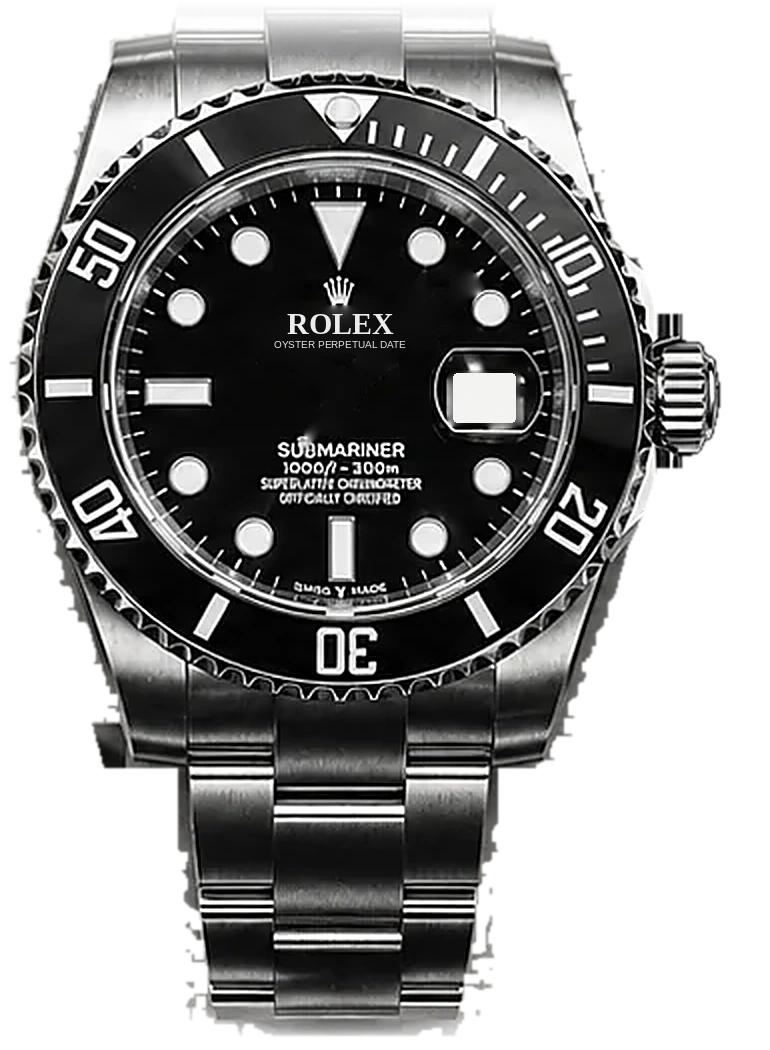
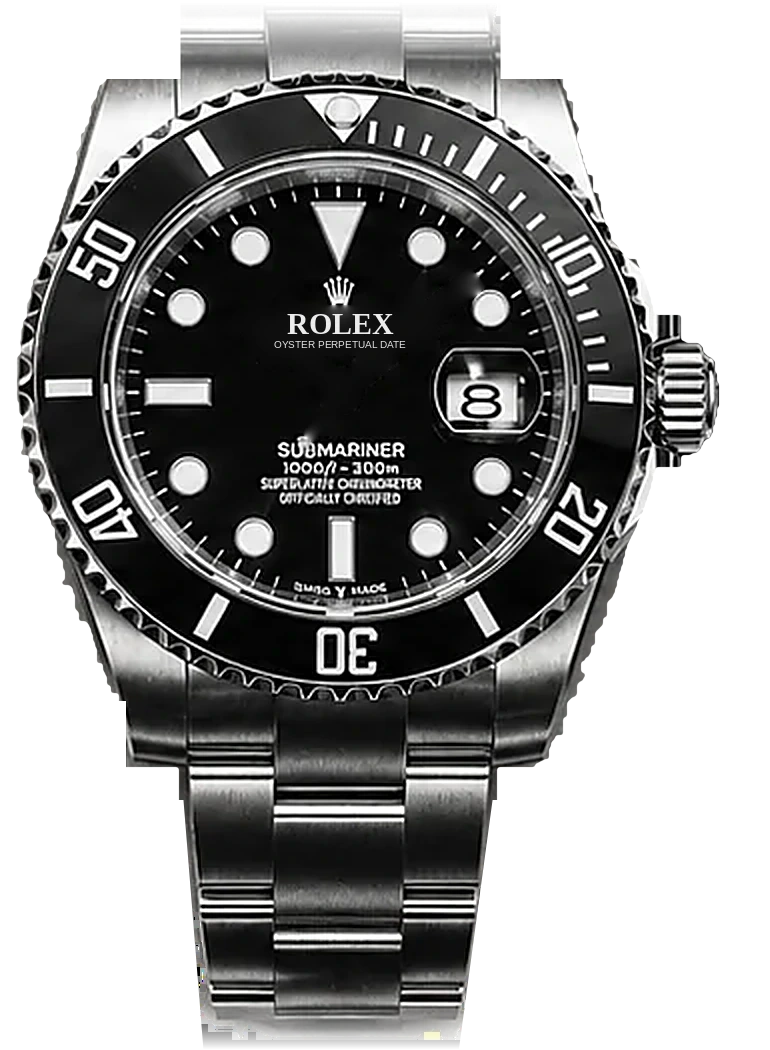
Monalex : Submariner immobile, date d'origine, détourage lissé (#29)
* Localisateur de montres Monaco : style blanc/vert/or, compte, suivis, réactivité des vendeurs, rafraîchir

Claude-Session: https://claude.ai/code/session_016EaW4x921TW3DG867DRSbr

* Monalex : détaillants officiels Rolex réels (Monaco, France, Europe, monde), cartes Plan / Google Maps / satellite / Google Earth 3D

Claude-Session: https://claude.ai/code/session_016EaW4x921TW3DG867DRSbr

* Monalex : logo dans l'en-tête, le menu, la recherche, les icônes et l'image de partage ; accueil assorti (cadran vert, or)

Claude-Session: https://claude.ai/code/session_016EaW4x921TW3DG867DRSbr

* Monalex : textes revus (mêmes mots partout, erreurs et pages vides utiles), page À propos et données personnelles, confirmation de suppression, chargement animé, référencement

Claude-Session: https://claude.ai/code/session_016EaW4x921TW3DG867DRSbr

* Monalex : vert poker soleillé (couleurs relevées sur un cadran), reflets qui tournent au défilement

Claude-Session: https://claude.ai/code/session_016EaW4x921TW3DG867DRSbr

* Monalex : polices Garamond hébergées, cartes épurées, bandeau cookies (Google Maps sur accord), page Notifications, filtre photos (qualité, doublons)

Claude-Session: https://claude.ai/code/session_016EaW4x921TW3DG867DRSbr

* Monalex : catalogue officiel uniquement (plus d'annonces d'occasion), filtres sur toutes les caractéristiques, alertes de recherche avec notification

Claude-Session: https://claude.ai/code/session_016EaW4x921TW3DG867DRSbr
[…]

diff --git a/docs/monalex/app.js b/docs/monalex/app.js
@@ -1616,31 +1616,24 @@ async function start() {
     const live = $("#subLive");
     // photo nette (aiguilles d'origine effacées proprement) + aiguilles et date en direct
     const lume = "#f4f2ea";
-    live.innerHTML = `<img src="img/sub-montre.webp?v=3" alt="" width="770" height="1050" decoding="async">
+    live.innerHTML = `<img src="img/sub-montre.webp?v=4" alt="" width="770" height="1050" decoding="async">
 <svg viewBox="0 0 770 1050" aria-hidden="true"><defs><filter id="subOmbre" x="-50%" y="-50%" width="200%" height="200%"><feDropShadow dx="3" dy="5" stdDeviation="3" flood-opacity=".6"/></filter>
 <linearGradient id="subMet" x1="0" x2="1"><stop offset="0" stop-color="#8d9096"/><stop offset=".5" stop-color="#f4f5f7"/><stop offset="1" stop-color="#9a9da3"/></linearGradient></defs>
-<text class="w-d" x="484" y="399" font-size="38" font-weight="700" fill="#111" text-anchor="middle" dominant-baseline="central" font-family="Helvetica,Arial,sans-serif"></text>
 <g filter="url(#subOmbre)" transform="translate(340 390) scale(.94) translate(-300 -410)">
 <g class="w-h"><path d="M294 410V336h12v74Z" fill="url(#subMet)"/><circle cx="300" cy="318" r="21" fill="${lume}" stroke="url(#subMet)" stroke-width="6"/><path d="M300 297v42M281.8 328.5 300 318l18.2 10.5" stroke="url(#subMet)" stroke-width="4" fill="none"/><path d="M293 298L300 272L307 298Z" fill="url(#subMet)"/></g>
 <g class="w-m"><path d="M291 410V262L300 228L309 262V410Z" fill="url(#subMet)"/><path d="M295 395V266L300 246L305 266V395Z" fill="${lume}"/></g>
 <g class="w-s"><path d="M298.6 460V226h2.8v234Z" fill="url(#subMet)"/><circle cx="300" cy="262" r="9" fill="${lume}" stroke="url(#subMet)" stroke-width="3"/></g>
 <circle cx="300" cy="410" r="10" fill="url(#subMet)"/><circle cx="300" cy="410" r="3" fill="#777"/></g></svg>`;
-    const hH = live.querySelector(".w-h"), hM = live.querySelector(".w-m"), hS = live.querySelector(".w-s"), jD = live.querySelector(".w-d");
+    const hH = live.querySelector(".w-h"), hM = live.querySelector(".w-m"), hS = live.querySelector(".w-s");
     const tourne = () => {
       const t = new Date(), s = t.getSeconds() + t.getMilliseconds() / 1000, m = t.getMinutes() + s / 60, h = (t.getHours() % 12) + m / 60;
       hH.setAttribute("transform", `rotate(${(h * 30).toFixed(2)} 300 410)`);
       hM.setAttribute("transform", `rotate(${(m * 6).toFixed(2)} 300 410)`);
       hS.setAttribute("transform", `rotate(${(Math.floor(s * 8) / 8 * 6).toFixed(2)} 300 410)`);   // trotteuse : 8 petits pas par seconde
-      if (jD.textContent !== String(t.getDate())) jD.textContent = t.getDate();
       requestAnimationFrame(tourne);
     };
     tourne();
-    // effet 3D : la montre s'incline vers le doigt / la souris, et avec le téléphone
-    const hero = $("#subPoster");
-    const incline = (x, y) => live.style.setProperty("--rx", `${(-y * 14).toFixed(2)}deg`) || live.style.setProperty("--ry", `${(x * 18).toFixed(2)}deg`);
-    hero.addEventListener("pointermove", ev => { const r = hero.getBoundingClientRect(); incline((ev.clientX - r.left) / r.width - .5, (ev.clientY - r.top) / r.height - .5); });
-    hero.addEventListener("pointerleave", () => incline(0, 0));
-    addEventListener("deviceorientation", ev => { if (ev.gamma == null) return; incline(Math.max(-.5, Math.min(.5, ev.gamma / 50)), Math.max(-.5, Math.min(.5, (ev.beta - 45) / 60))); }, { passive: true });
+    // la montre reste immobile au survol (pas d'inclinaison)
     // léger effet de profondeur au défilement (téléphone)
     const im = $("#subPoster img"); let tic = false;
     addEventListener("scroll", () => { if (tic) return; tic = true; requestAnimationFrame(() => { tic = false; const y = Math.min(scrollY, innerHeight); im.style.setProperty("--px", (y * .35).toFixed(1) + "px"); }); }, { passive: true }); }

diff --git a/docs/monalex/sw.js b/docs/monalex/sw.js
@@ -1,7 +1,7 @@
 // Monalex : l'appli s'ouvre même sans réseau.
 // Fichiers de l'appli : cache d'abord. Annonces (montres.json) et page : réseau d'abord, cache si hors ligne.
-const V = 'monalex-v38';
-const APP = ['./', 'index.html', 'app.css?v=32', 'app.js?v=30', 'watch.js?v=20', 'watch3d.js?v=23', 'daytona3d.js?v=23', 'img/daytona-face.jpg?v=23', 'vendor/three.module.min.js', 'detaillants.json', 'vendor/leaflet.js', 'vendor/leaflet.css', 'manifest.webmanifest', 'icon-192.png', 'favicon-32.png', 'img/logo-monalex.png', 'img/monalex-mot.png', 'img/logo.png', 'img/submariner.webp', 'img/submariner-900.webp', 'img/sub-montre.webp', 'fonts/cormorant-garamond-latin-500-normal.woff2', 'fonts/eb-garamond-latin-400-normal.woff2'];
+const V = 'monalex-v39';
+const APP = ['./', 'index.html', 'app.css?v=33', 'app.js?v=31', 'watch.js?v=20', 'watch3d.js?v=23', 'daytona3d.js?v=23', 'img/daytona-face.jpg?v=23', 'vendor/three.module.min.js', 'detaillants.json', 'vendor/leaflet.js', 'vendor/leaflet.css', 'manifest.webmanifest', 'icon-192.png', 'favicon-32.png', 'img/logo-monalex.png', 'img/monalex-mot.png', 'img/logo.png', 'img/submariner.webp', 'img/submariner-900.webp', 'img/sub-montre.webp', 'fonts/cormorant-garamond-latin-500-normal.woff2', 'fonts/eb-garamond-latin-400-normal.woff2'];
 
 self.addEventListener('install', ev => ev.waitUntil(caches.open(V).then(c => c.addAll(APP)).then(() => self.skipWaiting())));
 self.addEventListener('activate', ev => ev.waitUntil(

diff --git a/docs/monalex/app.css b/docs/monalex/app.css
@@ -969,7 +969,7 @@ html.calm .hero-sheen,html.calm .btn-green::after,html.calm .tile.dark::after{an
 .sub-live{aspect-ratio:770/1050;height:88%;translate:-43.6% -50%}
 @keyframes sub-flotte{0%,100%{translate:-43.6% -50%}50%{translate:-43.6% calc(-50% - 10px)}}
 @media (min-width:901px){.sub-live{height:94%}}
-.sub-live::after{-webkit-mask:url(img/sub-montre.webp?v=3) center/contain no-repeat;mask:url(img/sub-montre.webp?v=3) center/contain no-repeat}
+.sub-live::after{-webkit-mask:url(img/sub-montre.webp?v=4) center/contain no-repeat;mask:url(img/sub-montre.webp?v=4) center/contain no-repeat}
 
 /* Logo Monalex Watches (cadran + nom), version graphite sur l'en-tête blanc ; argent sur fonds sombres */
 .emblem .em-logo{display:block;height:56px;width:auto}
@@ -979,3 +979,5 @@ html.calm .hero-sheen,html.calm .btn-green::after,html.calm .tile.dark::after{an
 /* Collections : vraie photo de la montre */
 .coll-ph{display:block;width:108px;height:108px;margin:0 auto 10px;border-radius:12px;overflow:hidden;background:#fff;box-shadow:0 1px 0 rgba(0,0,0,.04)}
 .coll-ph img{width:100%;height:100%;object-fit:cover;display:block}
+
+.sub-live{transform:none!important}

diff --git a/docs/monalex/index.html b/docs/monalex/index.html
@@ -23,7 +23,7 @@
 <link rel="preload" href="fonts/cormorant-garamond-latin-500-normal.woff2" as="font" type="font/woff2" crossorigin>
 <link rel="preload" href="fonts/eb-garamond-latin-400-normal.woff2" as="font" type="font/woff2" crossorigin>
 <link rel="stylesheet" href="vendor/leaflet.css">
-<link rel="stylesheet" href="app.css?v=32">
+<link rel="stylesheet" href="app.css?v=33">
 </head>
 <body>
 <div class="demo" id="demo" hidden><div class="wrap"><span><b>Version de démonstration</b> : annonces, vendeurs, coordonnées et statistiques fictifs.</span><button class="btn btn-green" id="demoOk">OK</button></div></div>
@@ -249,6 +249,6 @@
 <script type="importmap">{"imports":{"three":"./vendor/three.module.min.js","three/addons/":"./vendor/jsm/"}}</script>
 <script src="vendor/leaflet.js"></script>
 <script src="watch.js?v=20"></script>
-<script src="app.js?v=30"></script>
+<script src="app.js?v=31"></script>
 </body>
 </html>
